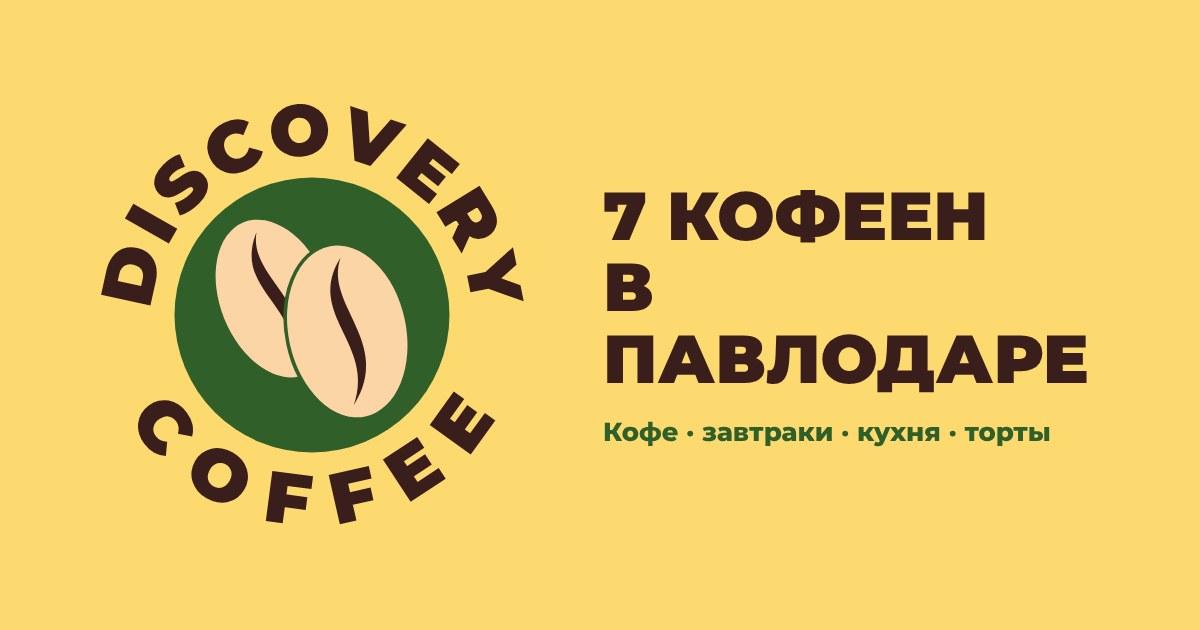
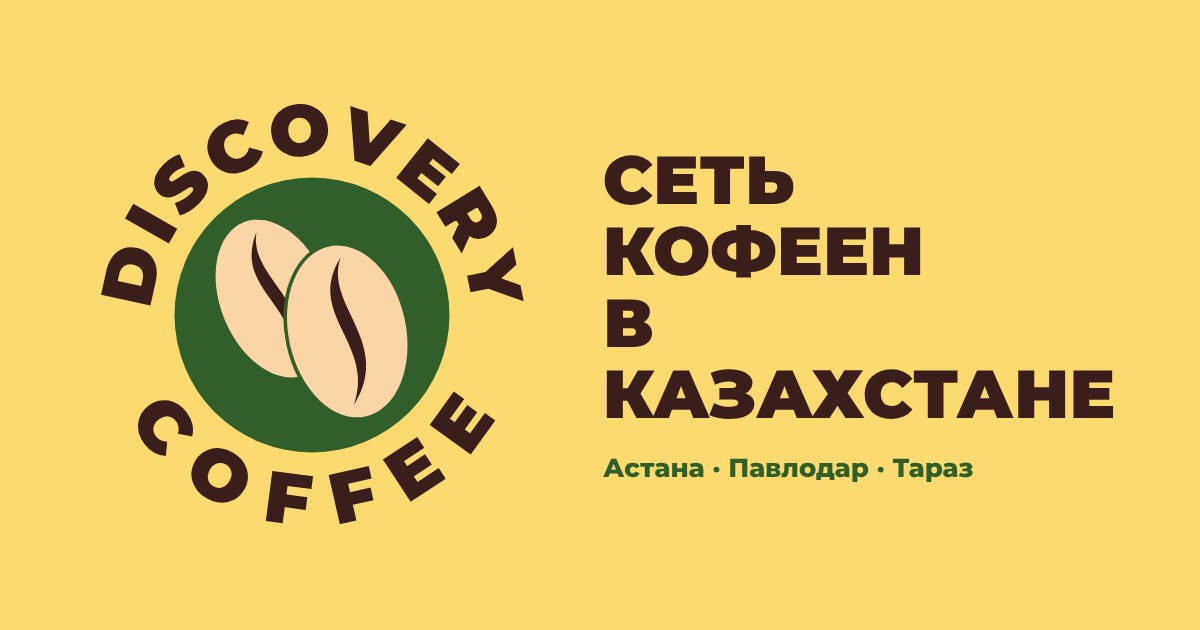
Меню, города и без среднего чека
- Меню: категории одной лентой, фото и позиции в одной карточке,
  без «цена у бариста» в каждой строке; у суши логотип вместо чужого фото
- Убран средний чек
- Сеть по Казахстану: Астана, Павлодар, Тараз; выбор города в адресах

Claude-Session: https://claude.ai/code/session_01B6u5v3TFGC57GsYf9jem1f

Changed region(s): [[0.4933, 0.2413, 0.925, 0.7841]]

diff --git a/index.html b/index.html
@@ -3,15 +3,15 @@
 <head>
 <meta charset="utf-8">
 <meta name="viewport" content="width=device-width, initial-scale=1, viewport-fit=cover">
-<title>Discovery Coffee · Павлодар</title>
-<meta name="description" content="Discovery Coffee — семь кофеен в Павлодаре. Кофе, завтраки, бизнес-ланч, халяльная и европейская кухня, торты на заказ.">
+<title>Discovery Coffee — сеть кофеен в Казахстане</title>
+<meta name="description" content="Discovery Coffee — сеть кофеен в Астане, Павлодаре и Таразе. Кофе, завтраки, бизнес-ланч, кухня и торты на заказ.">
 <meta name="theme-color" content="#FDDA70">
 <link rel="icon" href="img/logo.svg" type="image/svg+xml">
 <link rel="icon" href="img/favicon-32.png" sizes="32x32" type="image/png">
 <link rel="apple-touch-icon" href="img/apple-touch-icon.png">
 <meta property="og:type" content="website">
-<meta property="og:title" content="Discovery Coffee · Павлодар">
-<meta property="og:description" content="Семь кофеен в Павлодаре: кофе, завтраки, кухня и торты на заказ.">
+<meta property="og:title" content="Discovery Coffee — сеть кофеен в Казахстане">
+<meta property="og:description" content="Астана, Павлодар, Тараз: кофе, завтраки, кухня и торты на заказ.">
 <meta property="og:image" content="img/og.jpg">
 <link rel="preconnect" href="https://fonts.googleapis.com">
 <link rel="preconnect" href="https://fonts.gstatic.com" crossorigin>
@@ -109,6 +109,8 @@ header.solid .pill{background:var(--sun);color:var(--brown)}
 @media (max-width:980px){.orbit{display:none}}
 .hero h1{font-size:clamp(28px,4.6vw,56px);text-transform:uppercase;max-width:20ch;animation:rise .9s var(--ease) .15s both}
 .hero h1 em{font-style:normal;color:var(--forest)}
+.cities{display:flex;flex-wrap:wrap;justify-content:center;gap:8px;margin:16px 0 0;animation:rise .9s var(--ease) .2s both}
+.cities span{font:800 14px/1 var(--f-display);text-transform:uppercase;letter-spacing:.06em;padding:9px 14px;border-radius:999px;background:var(--brown);color:var(--sun)}
 .hero p.sub{font-size:clamp(16px,1.6vw,19px);font-weight:500;max-width:46ch;margin:14px 0 0;color:#5a3d2f;animation:rise .9s var(--ease) .25s both}
 .hero-row{display:flex;flex-wrap:wrap;justify-content:center;align-items:center;gap:12px;margin-top:26px;animation:rise .9s var(--ease) .35s both}
 .status{display:inline-flex;align-items:center;gap:10px;padding:10px 16px 10px 14px;border-radius:999px;background:rgba(255,249,236,.65);font-size:14px;font-weight:600}
@@ -163,35 +165,43 @@ section.blk{padding-block:96px}
 }
 
 /* facts */
-.facts{display:grid;grid-template-columns:repeat(4,minmax(0,1fr));gap:12px;margin-top:56px}
-.facts > div{padding:22px;border-radius:var(--r);background:var(--card);border:1px solid var(--line);display:flex;gap:12px}
+.facts{display:flex;flex-wrap:wrap;justify-content:center;gap:12px;margin-top:56px}
+.facts > div{flex:0 1 calc((100% - 36px)/4);padding:22px;border-radius:var(--r);background:var(--card);border:1px solid var(--line);display:flex;gap:12px}
 .facts .bean{width:16px;height:22px;margin-top:1px;color:var(--forest)}
 .facts b{display:block;font:800 15px/1.3 var(--f-display)}
 .facts span{display:block;font-size:14px;color:var(--ink-2);margin-top:4px;line-height:1.45}
-@media (max-width:900px){.facts{grid-template-columns:repeat(2,minmax(0,1fr))}}
-@media (max-width:520px){.facts{grid-template-columns:minmax(0,1fr)}}
+@media (max-width:900px){.facts > div{flex-basis:calc((100% - 12px)/2)}}
+@media (max-width:520px){.facts > div{flex-basis:100%}}
 
 /* menu */
 #menu{background:var(--paper-2)}
-.menu{display:grid;grid-template-columns:minmax(0,1fr) 400px;gap:48px;align-items:start}
-@media (max-width:940px){.menu{grid-template-columns:minmax(0,1fr)}}
-.tabs{display:flex;gap:8px;flex-wrap:wrap;margin-bottom:24px}
-.tabs button{font:700 14px/1 var(--f-body);padding:12px 18px;border-radius:999px;border:2px solid var(--line);background:var(--card);color:var(--ink-2);cursor:pointer;transition:all .2s}
-.tabs button:hover{color:var(--ink);border-color:var(--ink-2)}
+.tabs{display:flex;gap:8px;overflow-x:auto;scrollbar-width:none;margin:0 -16px 20px;padding:4px 16px;scroll-snap-type:x proximity}
+.tabs::-webkit-scrollbar{display:none}
+.tabs button{flex:none;scroll-snap-align:start;font:800 14px/1 var(--f-display);text-transform:uppercase;letter-spacing:.03em;padding:14px 20px;border-radius:999px;border:2px solid var(--line);background:var(--card);color:var(--ink);cursor:pointer;white-space:nowrap;transition:background .2s,border-color .2s,color .2s}
+.tabs button:hover{border-color:var(--brown)}
 .tabs button[aria-selected="true"]{background:var(--brown);border-color:var(--brown);color:var(--sun)}
-.items{list-style:none;margin:0;padding:0}
-.items li{display:flex;justify-content:space-between;align-items:baseline;gap:20px;padding:16px 0;border-bottom:2px dotted #dcc89e}
-.items .n{font-weight:700;font-size:18px}
-.items .d{display:block;font-size:14px;color:var(--ink-2);margin-top:2px}
-.items .p{font-size:13px;color:var(--ink-2);white-space:nowrap}
-.menu-card{position:sticky;top:96px;border-radius:var(--r);overflow:hidden;background:var(--card);box-shadow:0 30px 60px -36px rgba(58,30,27,.5)}
-.menu-card .ph{aspect-ratio:4/5;background:var(--paper-2);position:relative}
-.menu-card #cat-photo img{width:100%;height:100%;object-fit:cover;animation:fade .5s var(--ease) both}
-.menu-card .stamp{position:absolute;right:14px;top:14px;width:76px;height:76px;filter:drop-shadow(0 6px 10px rgba(0,0,0,.3))}
-.menu-card .t{padding:20px 22px 22px;display:flex;flex-direction:column;gap:14px}
-.menu-card p{margin:0;font-size:15px;color:var(--ink-2)}
+.mpanel{display:grid;grid-template-columns:minmax(0,5fr) minmax(0,7fr);background:var(--card);border-radius:var(--r);overflow:hidden;box-shadow:0 30px 60px -40px rgba(58,30,27,.55)}
+.mph{position:relative;min-height:440px;background:var(--forest)}
+.mph img{position:absolute;inset:0;width:100%;height:100%;object-fit:cover;animation:fade .5s var(--ease) both}
+.mph.logo{display:grid;place-items:center}
+.mph.logo img{position:static;width:58%;height:auto;object-fit:contain}
+.mbody{padding:36px 40px;display:flex;flex-direction:column;gap:14px;min-width:0}
+.mbody h3{font-size:clamp(28px,3.4vw,42px);text-transform:uppercase}
+.mbody p{margin:0;color:var(--ink-2);font-size:16px;max-width:52ch}
+.items{list-style:none;margin:8px 0 0;padding:0;display:grid;grid-template-columns:repeat(2,minmax(0,1fr));gap:10px}
+.items li{display:flex;gap:10px;align-items:flex-start;padding:14px 16px;border-radius:14px;background:var(--paper);min-width:0}
+.items .bean{width:12px;height:17px;margin-top:3px;color:var(--forest)}
+.items .n{display:block;font-weight:700;font-size:16px;line-height:1.3}
+.items .d{display:block;font-size:13px;color:var(--ink-2);margin-top:2px;line-height:1.35}
+.mcta{margin-top:auto;padding-top:10px}
 @keyframes fade{from{opacity:.2}to{opacity:1}}
-@media (max-width:940px){.menu-card{position:static}.menu-card .ph{aspect-ratio:16/10}}
+@media (max-width:860px){
+  .mpanel{grid-template-columns:minmax(0,1fr)}
+  .mph{min-height:0;aspect-ratio:16/10}
+  .mph.logo img{width:34%}
+  .mbody{padding:22px 18px 24px}
+}
+@media (max-width:360px){.items{grid-template-columns:minmax(0,1fr)}}
 
 /* cakes */
 .cakes{display:grid;grid-template-columns:repeat(12,minmax(0,1fr));gap:16px;align-items:center}
@@ -228,6 +238,15 @@ section.blk{padding-block:96px}
 .br.lead-card{background:var(--sun);color:var(--brown);justify-content:space-between}
 .br.lead-card p{margin:0;font-size:15px;font-weight:500}
 
+.ctabs{display:flex;flex-wrap:wrap;gap:8px;margin:-12px 0 18px}
+.ctabs button{font:800 15px/1 var(--f-display);text-transform:uppercase;letter-spacing:.04em;padding:14px 20px;border-radius:999px;border:2px solid rgba(255,244,214,.35);background:transparent;color:var(--forest-ink);cursor:pointer;transition:background .2s,border-color .2s,color .2s}
+.ctabs button:hover{border-color:var(--sun)}
+.ctabs button[aria-selected="true"]{background:var(--sun);border-color:var(--sun);color:var(--brown)}
+.ctabs small{font:700 12px/1 var(--f-body);opacity:.7;margin-left:6px}
+#branches .city-lead{margin:0 0 22px}
+.br.city-card{grid-column:1 / -1;flex-direction:row;flex-wrap:wrap;align-items:center;justify-content:space-between;gap:20px 32px;padding:32px}
+.br.city-card h3{font-size:clamp(26px,3.4vw,40px);font-weight:900;text-transform:uppercase}
+.br.city-card p{margin:8px 0 0;color:var(--ink-2);max-width:52ch}
 /* reviews */
 .rv-top{display:grid;grid-template-columns:minmax(0,340px) minmax(0,1fr);gap:16px;margin-bottom:16px}
 @media (max-width:860px){.rv-top{grid-template-columns:minmax(0,1fr)}}
@@ -346,8 +365,9 @@ footer{background:var(--brown);color:var(--sun);padding-block:64px 36px}
       <figure class="orbit o2"><img src="img/latte.webp" alt="Капучино с сырниками"></figure>
       <figure class="orbit o3"><img src="img/cheesecake.webp" alt="Чизкейк"></figure>
     </div>
-    <h1 id="h1">Семь кофеен <em>Павлодара</em></h1>
-    <p class="sub">Кофе, завтраки, бизнес-ланч и ужин каждый день. Халяльная и европейская кухня, торты на заказ.</p>
+    <h1 id="h1">Сеть кофеен <em>в Казахстане</em></h1>
+    <p class="cities" aria-label="Города"><span>Астана</span><span>Павлодар</span><span>Тараз</span></p>
+    <p class="sub">Кофе, завтраки, бизнес-ланч и ужин каждый день. Торты на заказ.</p>
     <div class="hero-row">
       <div class="status" id="status"><span class="dot"></span>Проверяем, кто открыт…</div>
       <a class="btn forest" href="#branches"><svg width="16" height="16" aria-hidden="true"><use href="#pin"/></svg>Найти ближайшую</a>
@@ -367,7 +387,7 @@ footer{background:var(--brown);color:var(--sun);padding-block:64px 36px}
       <figure class="ph2"><img src="img/breakfast.webp" alt="Завтрак: рис с котлетами и капучино" loading="lazy"><figcaption>Завтраки</figcaption></figure>
       <figure class="ph3"><img src="img/cappuccino.webp" alt="Капучино" loading="lazy"><figcaption>Кофе</figcaption></figure>
       <figure class="ph4"><img src="img/salmon.webp" alt="Лосось на гриле" loading="lazy"><figcaption>Кухня</figcaption></figure>
-      <figure class="logo-tile"><img src="img/logo.svg" alt="" loading="lazy"><p>Семь адресов, один вкус — от Машхур Жусупа до Batyr Mall</p></figure>
+      <figure class="logo-tile"><img src="img/logo.svg" alt="" loading="lazy"><p>Астана, Павлодар, Тараз — один вкус в каждом городе</p></figure>
       <figure class="ph5"><img src="img/logo-wall.webp" alt="Светящаяся карта мира «Кофейный пояс» в зале" loading="lazy" style="object-position:50% 40%"><figcaption>Кофейный пояс</figcaption></figure>
     </div>
     <div class="facts" id="facts"></div>
@@ -377,15 +397,15 @@ footer{background:var(--brown);color:var(--sun);padding-block:64px 36px}
 <section class="blk" id="menu" aria-labelledby="menu-h">
   <div class="wrap">
     <div class="head"><div><span class="eyebrow"><svg class="bean" aria-hidden="true"><use href="#bean"/></svg>Меню</span><h2 id="menu-h">Что у нас есть</h2><p class="lead">Цены уточняйте у бариста или в WhatsApp, скоро добавим их сюда.</p></div></div>
-    <div class="menu">
-      <div>
-        <div class="tabs" role="tablist" id="tabs" aria-label="Категории меню"></div>
-        <ul class="items" id="items" role="tabpanel"></ul>
+    <div class="tabs" role="tablist" id="tabs" aria-label="Категории меню"></div>
+    <div class="mpanel" id="mpanel" role="tabpanel">
+      <div class="mph" id="cat-photo"></div>
+      <div class="mbody">
+        <h3 id="cat-name"></h3>
+        <p id="cat-note"></p>
+        <ul class="items" id="items"></ul>
+        <div class="mcta"><a class="btn forest" href="https://wa.me/77715597777"><svg width="16" height="16" aria-hidden="true"><use href="#wa"/></svg>Заказать с собой</a></div>
       </div>
-      <aside class="menu-card">
-        <div class="ph"><div id="cat-photo" style="height:100%"></div><img class="stamp" src="img/logo.svg" alt=""></div>
-        <div class="t"><p id="cat-note"></p><a class="btn forest" href="https://wa.me/77715597777" style="align-self:flex-start"><svg width="16" height="16" aria-hidden="true"><use href="#wa"/></svg>Заказать с собой</a></div>
-      </aside>
     </div>
   </div>
 </section>
@@ -415,7 +435,9 @@ footer{background:var(--brown);color:var(--sun);padding-block:64px 36px}
 
 <section class="blk" id="branches" aria-labelledby="br-h">
   <div class="wrap">
-    <div class="head"><div><span class="eyebrow"><svg class="bean" aria-hidden="true"><use href="#bean"/></svg>Адреса</span><h2 id="br-h">Семь адресов в Павлодаре</h2><p class="lead">Все кофейни работают без выходных. <span id="open-count"></span></p></div></div>
+    <div class="head"><div><span class="eyebrow"><svg class="bean" aria-hidden="true"><use href="#bean"/></svg>Адреса</span><h2 id="br-h">Наши кофейни</h2><p class="lead">Астана, Павлодар и Тараз. Все кофейни работают без выходных.</p></div></div>
+    <div class="ctabs" role="tablist" id="ctabs" aria-label="Город"></div>
+    <p class="lead city-lead" id="city-lead"></p>
     <div class="branches" id="brs"></div>
   </div>
 </section>
@@ -431,7 +453,7 @@ footer{background:var(--brown);color:var(--sun);padding-block:64px 36px}
         <div class="of">Рейтинг в 2ГИС</div>
         <div class="big num" id="score-n">—</div>
         <div class="stars" id="score-stars" aria-hidden="true"></div>
-        <div class="meta" id="score-meta">Оценки гостей всех семи кофеен</div>
+        <div class="meta" id="score-meta">Оценки гостей наших кофеен</div>
         <img src="img/logo.svg" alt="">
       </div>
       <div class="reviews" id="rvs-lead"></div>
@@ -481,7 +503,7 @@ footer{background:var(--brown);color:var(--sun);padding-block:64px 36px}
         <a href="tel:+77715597777" class="num">+7 771 559 77 77</a>
         <a href="https://2gis.kz/pavlodar/branches/70000001030973689">2ГИС</a>
       </nav>
-      <small>Discovery Coffee · Павлодар</small>
+      <small>Discovery Coffee · Астана · Павлодар · Тараз</small>
     </div>
   </div>
 </footer>
@@ -517,13 +539,13 @@ footer{background:var(--brown);color:var(--sun);padding-block:64px 36px}
   }
 
   // ---------- ticker ----------
-  var words=['Кофе','Завтраки','Бизнес-ланч','Халяль','Торты на заказ','VIP-зал','Веранда','Навынос'];
+  var words=['Астана','Павлодар','Тараз','Кофе','Завтраки','Бизнес-ланч','Торты на заказ','Навынос'];
   var bean='<svg class="bean" aria-hidden="true"><use href="#bean"/></svg>';
   var run=words.map(function(w){return '<span>'+w+bean+'</span>';}).join('');
   document.getElementById('ticker').innerHTML=run+run+run+run;
 
   // ---------- facts ----------
-  var facts=[['Халяль','Халяльная и европейская кухня'],['С 07:30 до полуночи','Большинство кофеен, без выходных'],['Завтраки и бизнес-ланч','Утром завтраки, днём комплексный обед'],['Средний чек','≈ 5 000 ₸'],['VIP-зал','Для встреч и праздников'],['Веранда','Столики на улице в тёплый сезон'],['Wi-Fi','Бесплатно, удобно работать с ноутбуком'],['С детьми и навынос','Детское меню, кофе и блюда с собой']];
+  var facts=[['Халяль','Халяльная и европейская кухня'],['Без выходных','Кофейни открыты каждый день'],['Завтраки и бизнес-ланч','Утром завтраки, днём комплексный обед'],['VIP-зал','Для встреч и праздников'],['Веранда','Столики на улице в тёплый сезон'],['Wi-Fi','Бесплатно, удобно работать с ноутбуком'],['С детьми и навынос','Детское меню, кофе и блюда с собой']];
   document.getElementById('facts').innerHTML=facts.map(function(f){return '<div>'+bean+'<div><b>'+f[0]+'</b><span>'+f[1]+'</span></div></div>';}).join('');
 
   // ---------- branches & open status (Pavlodar time, UTC+5) ----------
@@ -542,12 +564,30 @@ footer{background:var(--brown);color:var(--sun);padding-block:64px 36px}
   ];
   var openN=brs.filter(isOpen).length,nextOpen=Math.min.apply(null,brs.map(function(b){return b.o;}));
   document.getElementById('status').innerHTML=openN
-    ?'<span class="dot live"></span>Сейчас открыто '+openN+' из 7'
-    :'<span class="dot off"></span>Все закрыты · откроемся в '+hm(nextOpen);
-  document.getElementById('open-count').textContent=openN?'Сейчас открыто '+openN+' из 7.':'Сейчас все закрыты, первая откроется в '+hm(nextOpen)+'.';
+    ?'<span class="dot live"></span>В Павлодаре открыто '+openN+' из 7'
+    :'<span class="dot off"></span>В Павлодаре откроемся в '+hm(nextOpen);
   function plural(n,a,b,c){var m=n%10,h=n%100;return m===1&&h!==11?a:m>=2&&m<=4&&(h<10||h>=20)?b:c;}
+  var cities=[
+    {n:'Павлодар',count:7},
+    {n:'Астана',url:'https://2gis.kz/astana/branches/70000001019143867'},
+    {n:'Тараз',url:'https://2gis.kz/taraz/firm/70000001055154589'}
+  ],city=0,lastStats=null;
+  var ctabs=document.getElementById('ctabs');
+  function drawCityTabs(){
+    ctabs.innerHTML=cities.map(function(c,i){return '<button type="button" role="tab" aria-selected="'+(i===city)+'" data-c="'+i+'">'+c.n+(c.count?'<small>'+c.count+'</small>':'')+'</button>';}).join('');
+  }
+  ctabs.addEventListener('click',function(e){var b=e.target.closest('button');if(!b)return;city=+b.dataset.c;drawCityTabs();drawBranches(lastStats);});
+  drawCityTabs();
   function drawBranches(stats){
-    stats=stats||{};
+    lastStats=stats;stats=stats||{};
+    var c=cities[city],lead=document.getElementById('city-lead');
+    if(c.url){
+      lead.textContent='';
+      document.getElementById('brs').innerHTML='<article class="br city-card"><div><h3>'+c.n+'</h3><p>Адреса, часы работы и маршрут до каждой кофейни в '+(c.n==='Астана'?'Астане':'Таразе')+' — в 2ГИС.</p></div>'+
+        '<a class="btn forest" href="'+c.url+'"><svg width="16" height="16" aria-hidden="true"><use href="#pin"/></svg>Адреса в 2ГИС</a></article>';
+      return;
+    }
+    lead.textContent=openN?'Сейчас открыто '+openN+' из 7.':'Сейчас все закрыты, первая откроется в '+hm(nextOpen)+'.';
     document.getElementById('brs').innerHTML=brs.map(function(b){
       var on=isOpen(b),s=stats[b.id];
       var rate=s&&s.rating?'<span class="rate"><svg width="15" height="15" aria-hidden="true"><use href="#star"/></svg>'+s.rating.toFixed(1).replace('.',',')+'<span style="font-weight:500;color:var(--ink-2)"> · '+s.count+' '+plural(s.count,'оценка','оценки','оценок')+'</span></span>':'';
@@ -606,10 +646,10 @@ footer{background:var(--brown);color:var(--sun);padding-block:64px 36px}
     if(data.rating){
       document.getElementById('score-n').textContent=data.rating.toFixed(1).replace('.',',');
       document.getElementById('score-stars').innerHTML=stars(data.rating);
-      document.getElementById('score-meta').textContent=data.count+' '+plural(data.count,'оценка','оценки','оценок')+' гостей всех семи кофеен';
+      document.getElementById('score-meta').textContent=data.count+' '+plural(data.count,'оценка','оценки','оценок')+' гостей в 2ГИС';
     } else {
       document.getElementById('score-n').textContent='2ГИС';
-      document.getElementById('score-meta').textContent='Оценки и фото гостей всех семи кофеен — в нашей карточке';
+      document.getElementById('score-meta').textContent='Оценки и фото гостей наших кофеен — в 2ГИС';
     }
     if(data.updated)document.getElementById('rv-updated').textContent='Обновлено из 2ГИС '+date(data.updated);
     if(data.branches){var m={};data.branches.forEach(function(b){m[b.id]=b;});drawBranches(m);}
@@ -669,9 +709,9 @@ footer{background:var(--brown);color:var(--sun);padding-block:64px 36px}
     {n:'Кофе',img:'cappuccino',note:'Классика на эспрессо, холодный кофе и бамбл. Любой напиток можно взять с собой.',items:[['Эспрессо',''],['Капучино',''],['Латте',''],['Бамбл','эспрессо с апельсиновым соком'],['Айс-кофе','']]},
     {n:'Напитки',img:'drink',note:'Для тех, кто не пьёт кофе, и для детей.',items:[['Чай','чёрный, зелёный, ягодный'],['Какао',''],['Милкшейк',''],['Лимонад','']]},
     {n:'Завтраки',img:'breakfast',note:'Подаём с утра.',items:[['Блины',''],['Сырники',''],['Сэндвич',''],['Кесадилья','']]},
-    {n:'Бизнес-ланч',img:'salmon',note:'Комплексный обед. Время и состав дня уточняйте в кофейне.',items:[['Бизнес-ланч','суп, горячее, напиток']]},
+    {n:'Бизнес-ланч',img:'salmon',note:'Комплексный обед днём. Время и состав дня уточняйте в кофейне.',items:[['Суп',''],['Горячее',''],['Напиток','']]},
     {n:'Кухня',img:'bowl',note:'Халяльная и европейская кухня на обед и ужин.',items:[['Боулы',''],['Рамен',''],['Паста',''],['Рис вок',''],['Пицца',''],['Бургер',''],['Гриль','лосось, говядина'],['Картофель фри',''],['Супы',''],['Салаты','']]},
-    {n:'Суши',img:'interior-brick',note:'Роллы и сеты в зале и с собой.',items:[['Роллы',''],['Сеты','']]},
+    {n:'Суши',img:'',note:'Роллы и сеты в зале и с собой.',items:[['Роллы',''],['Сеты','']]},
     {n:'Десерты',img:'cheesecake',note:'Рулеты-безе, чизкейки и десерты дня в витрине. Торты на заказ.',items:[['Чизкейк',''],['Рулет-безе',''],['Десерт дня',''],['Торт на заказ','см. раздел «Торты»']]}
   ];
   var cur=0,tabs=document.getElementById('tabs');
@@ -679,11 +719,15 @@ footer{background:var(--brown);color:var(--sun);padding-block:64px 36px}
     tabs.innerHTML=menu.map(function(c,i){return '<button role="tab" id="tab-'+i+'" type="button" aria-selected="'+(i===cur)+'" tabindex="'+(i===cur?0:-1)+'" data-i="'+i+'">'+c.n+'</button>';}).join('');
     var c=menu[cur];
     document.getElementById('items').innerHTML=c.items.map(function(it){
-      return '<li><span><span class="n">'+it[0]+'</span>'+(it[1]?'<span class="d">'+it[1]+'</span>':'')+'</span><span class="p">цена у бариста</span></li>';}).join('');
+      return '<li>'+bean+'<span><span class="n">'+it[0]+'</span>'+(it[1]?'<span class="d">'+it[1]+'</span>':'')+'</span></li>';}).join('');
+    document.getElementById('cat-name').textContent=c.n;
     document.getElementById('cat-note').textContent=c.note;
-    document.getElementById('cat-photo').innerHTML='<img src="img/'+c.img+'.webp" alt="'+c.n+'">';
+    var ph=document.getElementById('cat-photo');
+    ph.className='mph'+(c.img?'':' logo');
+    ph.innerHTML=c.img?'<img src="img/'+c.img+'.webp" alt="'+c.n+'">':'<img src="img/logo.svg" alt="">';
   }
-  tabs.addEventListener('click',function(e){var b=e.target.closest('button');if(!b)return;cur=+b.dataset.i;draw();});
+  tabs.addEventListener('click',function(e){var b=e.target.closest('button');if(!b)return;cur=+b.dataset.i;draw();
+    var nb=document.getElementById('tab-'+cur);if(nb&&nb.scrollIntoView)nb.scrollIntoView({block:'nearest',inline:'center',behavior:'smooth'});});
   tabs.addEventListener('keydown',function(e){
     if(e.key!=='ArrowRight'&&e.key!=='ArrowLeft')return;
     cur=(cur+(e.key==='ArrowRight'?1:menu.length-1))%menu.length;draw();document.getElementById('tab-'+cur).focus();
